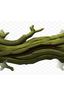
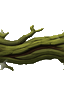
fix: EvilEnt 팔 스프라이트 누끼를 따고 팔이 어깨에서 출발하게 한다
배경이 픽셀로 그려진 채 들어간 스프라이트 4장을 걷어냈다. evil_ent_arm_fist 와
evil_ent_grab_claw 는 체커보드가 캔버스 전체에 칠해져 투명 픽셀이 0% 였고,
evil_ent_arm_segment 와 evil_ent_grab_segment 는 피사체 뒤에 흰 사각형이 있었다.

처음 검수가 알파 최솟값이 0인지만 봐서 통과시켰다. 가장자리에 투명 픽셀이 하나만
있어도 통과하는 검사라 안쪽에 칠해진 배경을 못 잡는다. 이번에는 네 모서리의 알파,
투명 픽셀 비율, 그리고 팔레트에 없는 밝은 무채색 픽셀의 비율까지 봤다. 세 번째
항목이 결정적이다 — 이 아트는 초록·갈색·주황뿐이라 밝은 무채색 덩어리는 배경밖에
될 수 없다.

배경은 가장자리에서 안쪽으로 flood fill 해서 지웠다. 바깥과 이어진 영역만 지우므로
피사체 안쪽의 밝은 픽셀은 살아남는다. 흰색에 안티에일리어싱된 경계는 두 번 훑어
제거해 흰 테두리가 남지 않게 했다.

재생성이 아니라 후처리인 이유는 이미지 생성 도구의 사용량 한도에 걸렸기 때문이다.
한도가 풀리면 이 4장은 다시 뽑는 편이 낫다. 나머지 2장은 원본 그대로 정상이다.

팔이 발밑에서 튀어나오던 것도 고쳤다. ServedObject 의 위치는 지면이라 투사체의
양 끝이 둘 다 바닥이었다. StretchProjectile 이 조준 전에 시작점을 shoulderHeight
만큼, 목표점을 aimHeight 만큼 올린다. 1.55 는 EvilEnt 스프라이트에서 잰 값으로,
몸 높이 2.56 에 bottom-center 피벗 기준 어깨 위치다.

diff --git a/Assets/Scripts/GameScene/Object/Projectile/StretchProjectile.cs b/Assets/Scripts/GameScene/Object/Projectile/StretchProjectile.cs
@@ -74,6 +74,17 @@ namespace GameScene.Object.Projectile
         /// <summary>Extra reach past the target, in world units, so the tip bites in.</summary>
         [SerializeField] private float overshoot;
 
+        /// <summary>
+        /// Height above the caster's own position where the arm leaves the body, in world units.
+        /// A ServedObject sits on the ground, so without this the arm would sprout from the feet.
+        /// Measured off EvilEnt's sprite: the body is 2.56 units tall on a bottom-centre pivot and
+        /// the shoulders sit a little above the middle.
+        /// </summary>
+        [SerializeField] private float shoulderHeight = 1.55f;
+
+        /// <summary>Height on the victim the arm aims at, so it strikes the body, not the feet.</summary>
+        [SerializeField] private float aimHeight = 0.6f;
+
         private Transform startFollow;
         private Transform endFollow;
         private Vector3 origin;
@@ -142,9 +153,14 @@ namespace GameScene.Object.Projectile
                 destination = endFollow.position;
             }
 
-            transform.position = origin;
-            transform.rotation = ProjectileUtil.GetRotation(origin, destination);
-            length = ProjectileUtil.GetCameraPlaneLength(origin, destination) + overshoot;
+            // Both ends arrive as ground positions. Lift them before aiming, so the arm leaves the
+            // shoulder and lands on the target's body rather than crawling along the floor.
+            Vector3 from = origin + Vector3.up * shoulderHeight;
+            Vector3 to = destination + Vector3.up * aimHeight;
+
+            transform.position = from;
+            transform.rotation = ProjectileUtil.GetRotation(from, to);
+            length = ProjectileUtil.GetCameraPlaneLength(from, to) + overshoot;
         }
 
         private void ApplyProgress(float value)
